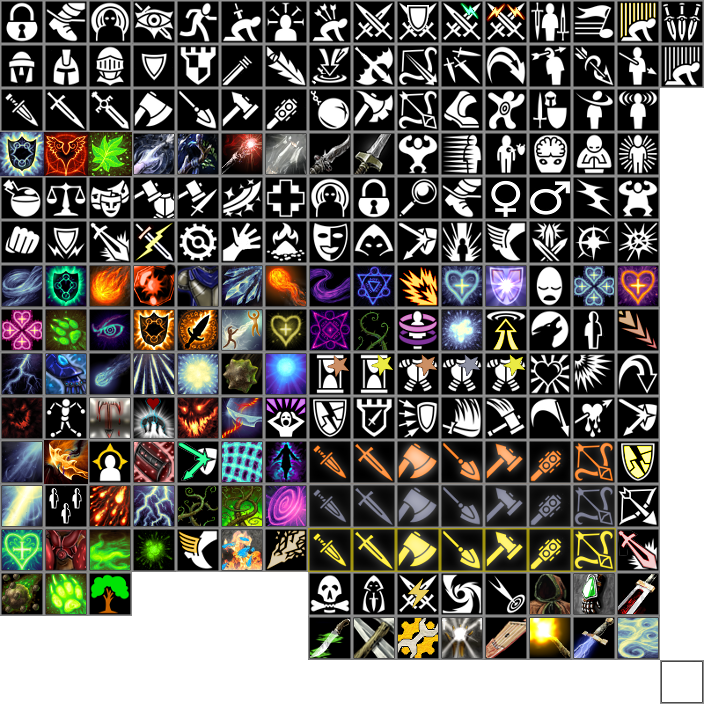
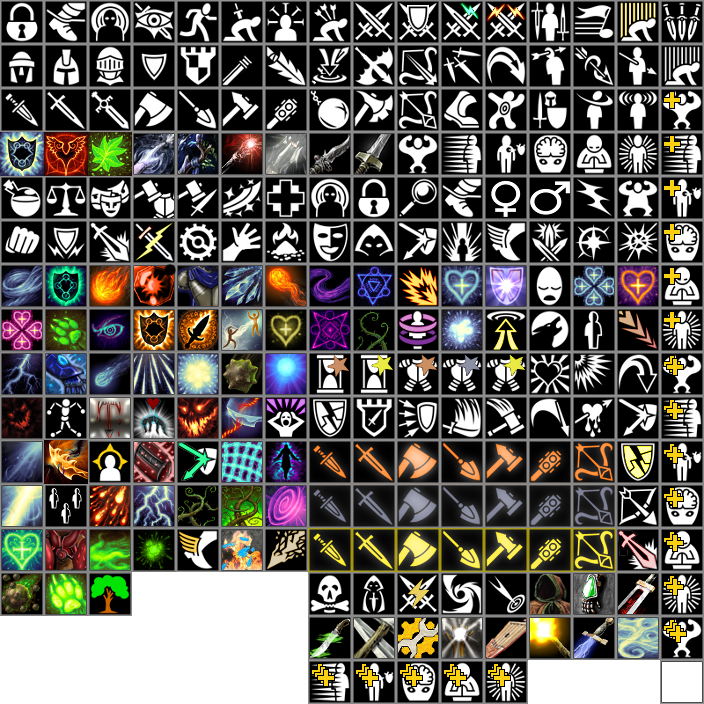
added new attribute training abilities, reorganized general abilities tree

Changed region(s): [[0.9375, 0.125, 1.0, 0.9375], [0.4375, 0.9375, 0.75, 1.0]]

diff --git a/src/net/sf/hale/bonus/Stat.java b/src/net/sf/hale/bonus/Stat.java
@@ -20,17 +20,20 @@
 package net.sf.hale.bonus;
 
 public enum Stat {
-	CreatureLevel, CasterLevel, LevelAttackBonus, LevelDamageBonus, MaxHP,
-	BaseStr, BaseDex, BaseCon, BaseInt, BaseWis, BaseCha,
+	CreatureLevel("Level"), CasterLevel("Caster Level"), LevelAttackBonus("Level Attack Bonus"),
+	LevelDamageBonus("Level Damage Bonus"), MaxHP("Maximum Hit Points"),
+	BaseStr("Strength"), BaseDex("Dexterity"), BaseCon("Constitution"), BaseInt("Intelligence"), BaseWis("Wisdom"), BaseCha("Charisma"),
 	Str("Strength"), Dex("Dexterity"), Con("Constitution"), Int("Intelligence"), Wis("Wisdom"), Cha("Charisma"),
-	MentalResistance, PhysicalResistance, ReflexResistance,
-	WeightLimit,
-	AttacksOfOpportunity,
-	ArmorClass, TouchArmorClass,
-	ShieldAttackPenalty, ArmorPenalty, MovementBonus, MovementCost,
-	InitiativeBonus,
-	AttackCost, MainHandAttackBonus, MainHandDamageBonus, OffHandAttackBonus, OffHandDamageBonus,
-	TouchAttackBonus;
+	MentalResistance("Mental Resistance"), PhysicalResistance("Physical Resistance"), ReflexResistance("Reflex Resistance"),
+	WeightLimit("Weight Limit"),
+	AttacksOfOpportunity("Attacks of Opportunity"),
+	ArmorClass("Armor Class"), TouchArmorClass("Armor Class to Touch"),
+	ShieldAttackPenalty("Shield Attack Penalty"), ArmorPenalty("Armor Penalty"),
+	MovementBonus("Movement Bonus"), MovementCost("Movement Cost"),
+	InitiativeBonus("Initiative Bonus"),
+	AttackCost("Attack Cost"), MainHandAttackBonus("Main Hand Attack Bonus"), MainHandDamageBonus("Main Hand Damage Bonus"),
+	OffHandAttackBonus("Off Hand Attack Bonus"), OffHandDamageBonus("Off Hand Damage Bonus"),
+	TouchAttackBonus("Touch Attack Bonus");
 	
 	private Stat() {
 		name = toString();

diff --git a/src/net/sf/hale/rules/PrereqList.java b/src/net/sf/hale/rules/PrereqList.java
@@ -262,7 +262,7 @@ public class PrereqList {
 		sb.append("<div style=\"font-family: vera-bold-blue; margin-top : 1em;\">Prereqs</div>");
 		
 		for (Stat stat : statPrereqs.keySet()) {
-			sb.append("<p><span style=\"font-family: purple;\">").append(stat.toString());
+			sb.append("<p><span style=\"font-family: purple;\">").append(stat.name);
 			sb.append("</span> ").append(statPrereqs.get(stat)).append("</p>");
 		}
 		
